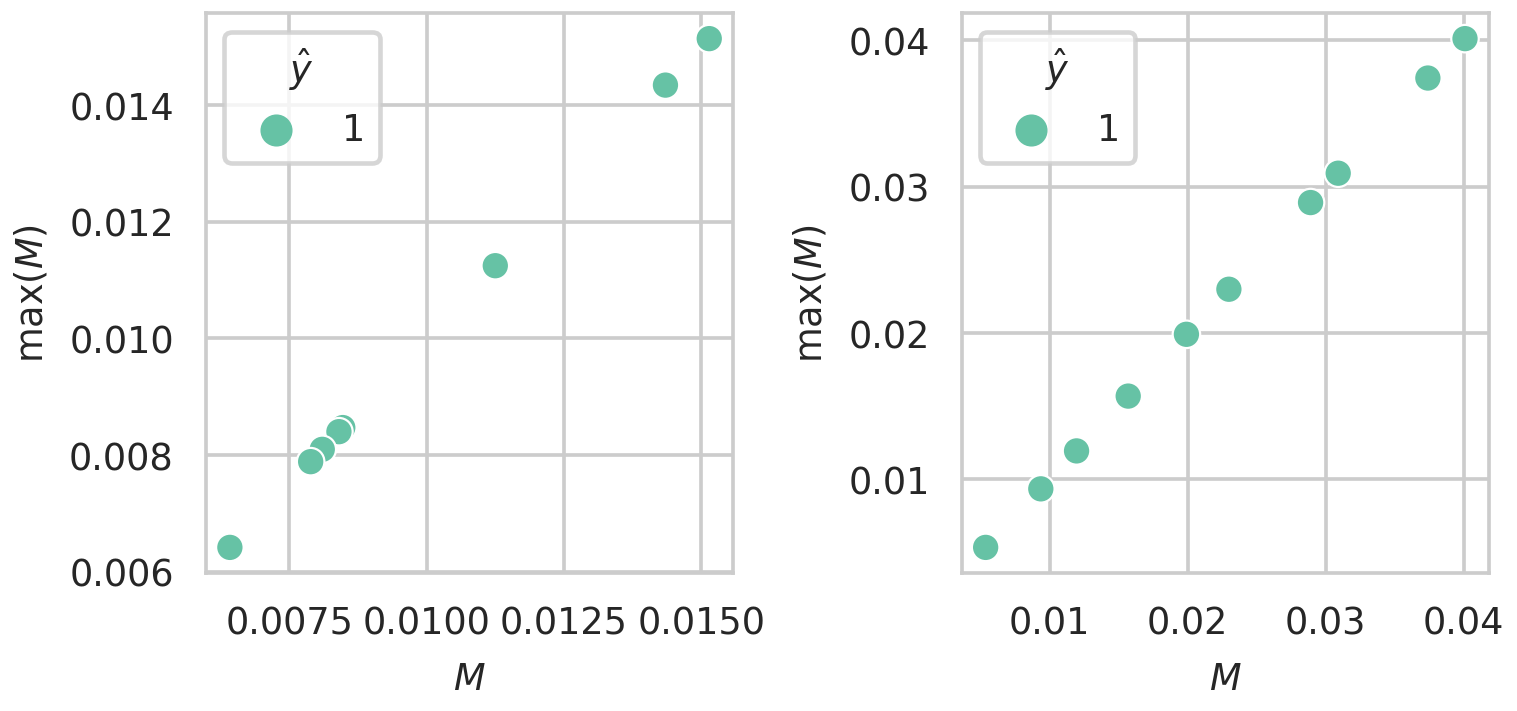
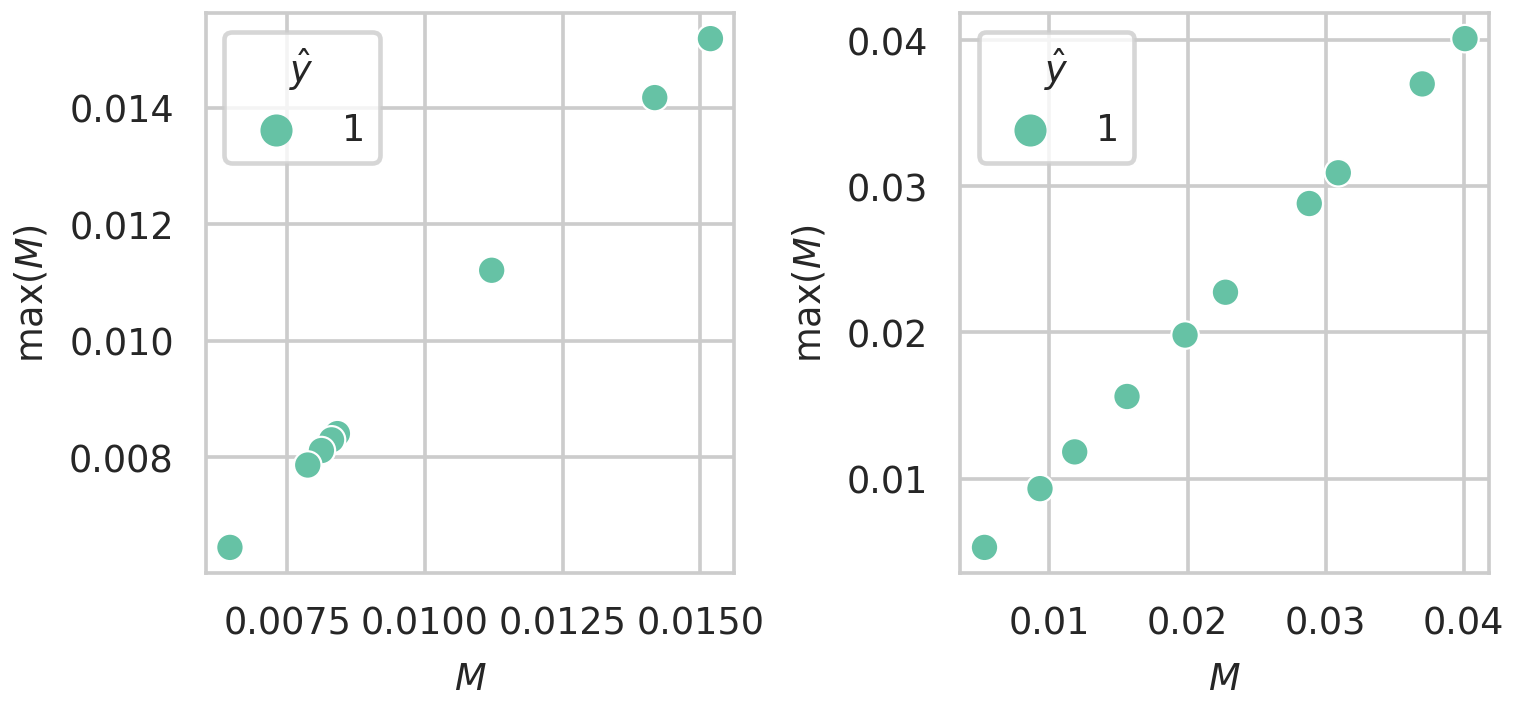
settings

diff --git a/eval_celeb_a.py b/eval_celeb_a.py
@@ -1,4 +1,5 @@
 from pathlib import Path
+import os
 
 import numpy as np
 import matplotlib.pyplot as plt
@@ -15,7 +16,7 @@ warnings.filterwarnings('ignore')
 from datasets.celeba_uf import CelebA
 from datasets.cifar10big import CIFAR10Big
 
-from metrics import whitebox_mean
+from metrics import whitebox_mem_score
 
 device = 'cuda:0' if torch.cuda.is_available() else 'cpu'
 s_directory = 'results/celeba'
@@ -25,8 +26,15 @@ batch_size = 512
 mean = [0, 0, 0]
 std = [1, 1, 1]
 
-outputfile = 'blackbox_celeba.csv'
-eval_dataset = 'cifar10' # cifar10 (blackbox) or celeb a (whitebox)
+# select memorisation test setting
+if os.environ['SETTING'] == 'blackbox':
+    outputfile = 'celeba_whitebox.csv'
+    eval_dataset = 'cifar10'
+elif os.environ['SETTING'] == 'greybox':
+    outputfile = 'celeba_greybox.csv'
+    eval_dataset = 'celeba'
+else:
+    raise NotImplementedError('SETTING unknown')
 
 basic_transforms = [
     transforms.ToTensor(),
@@ -109,8 +117,7 @@ def evaluate(experiment=None, show_label_dist=True, n_models=30, threshold=0, n=
         dataset = CIFAR10Big(root='./data', train=True,
                         download=True, transform=basic_transforms, canary_id='all')
     else:
-        raise ImportError(f'dataset {ds} is unknown')
-
+        raise NotImplementedError(f'dataset {ds} is unknown')
 
     dataloader = torch.utils.data.DataLoader(dataset, batch_size=batch_size,
                                                 shuffle=False, num_workers=2)
@@ -135,7 +142,7 @@ def evaluate(experiment=None, show_label_dist=True, n_models=30, threshold=0, n=
         labels = dataset.get_targets()
 
         # metrics            
-        m1, pval, _ = whitebox_mean(y_c, y_uf, canary_label, labels)
+        m1, pval, _ = whitebox_mem_score(y_c, y_uf, canary_label, labels)
         wb_mean.append(m1)
         wb_mean_pval.append(pval)
 
@@ -143,7 +150,7 @@ def evaluate(experiment=None, show_label_dist=True, n_models=30, threshold=0, n=
         stat_mean = []
         pval_mean = []
         for k in range(n_classes):
-            m1, pval, _ = whitebox_mean(y_c, y_uf, k, labels)
+            m1, pval, _ = whitebox_mem_score(y_c, y_uf, k, labels)
             stat_mean.append(m1)
             pval_mean.append(pval)
         
@@ -161,11 +168,11 @@ def evaluate(experiment=None, show_label_dist=True, n_models=30, threshold=0, n=
         uf_dim = 5
 
     dataf = {
-        'wb_mean': wb_mean,
-        'wb_mean_arg_max': wb_mean_arg_max,
-        'wb_mean_pval': wb_mean_pval,
-        'wb_mean_arg_max_pval': wb_mean_arg_max_pval,
-        'y_hat_mean': y_hat_mean,
+        'whitebox_m': wb_mean,
+        'blackbox_m': wb_mean_arg_max,
+        'whitebox_m_pval': wb_mean_pval,
+        'blackbox_m_pval': wb_mean_arg_max_pval,
+        'y_hat': y_hat_mean,
         'uf dim': uf_dim,
         'canary frequency': canary_frequency,
         'cardinality': cardinality
@@ -196,7 +203,6 @@ def plot():
     plt.rc('legend', fontsize=SMALL_SIZE)    # legend fontsize
     plt.rc('figure', titlesize=BIGGER_SIZE)  # fontsize of the figure title
 
-
     sns.set_style('whitegrid')
     sns.set_palette("Set2")
 
@@ -204,13 +210,13 @@ def plot():
 
     print(df.columns)
 
-    d0 = df[(df['wb_mean_pval'] < 0.05) & (df['canary frequency'] == 1)]['wb_mean']
+    d0 = df[(df['whitebox_m_pval'] < 0.05) & (df['canary frequency'] == 1)]['whitebox_m']
     print(f'{(len(d0))} / {len(df) // 2} n model memorised {(len(d0)) / (len(df) // 2)} ')
     print(f"average memorisation {d0.mean():.2f}")
 
-    df[r'$\hat{y}$'] = df['y_hat_mean']
+    df[r'$\hat{y}$'] = df['y_hat']
 
-    df = df.loc[(df['wb_mean_pval'] < 0.05)]
+    df = df.loc[(df['whitebox_m_pval'] < 0.05)]
 
     f, ax = plt.subplots(1, 2, constrained_layout=True, figsize=(6.9 * (2/3), 6.9 / 1.6 / 2))
 
@@ -224,8 +230,8 @@ def plot():
     df_0 = df.loc[(df['uf dim'] == 5) & (df['canary frequency'] == 1)]
     df_1 = df.loc[(df['uf dim'] == 5) & (df['canary frequency'] == 100)]
 
-    sns.scatterplot(data=df_0, x='wb_mean', y='wb_mean_arg_max', hue=r'$\hat{y}$', ax=ax[0], palette=cmap )
-    sns.scatterplot(data=df_1, x='wb_mean', y='wb_mean_arg_max', hue=r'$\hat{y}$', ax=ax[1], palette=cmap  )
+    sns.scatterplot(data=df_0, x='whitebox_m', y='blackbox_m', hue=r'$\hat{y}$', ax=ax[0], palette=cmap )
+    sns.scatterplot(data=df_1, x='whitebox_m', y='blackbox_m', hue=r'$\hat{y}$', ax=ax[1], palette=cmap  )
 
     ax[0].set_xlabel(r'$M$')
     ax[0].set_ylabel(r'$\mathrm{max}(M)$')

diff --git a/metrics.py b/metrics.py
@@ -1,6 +1,6 @@
 from scipy.stats import ttest_rel
 
-def whitebox_mean(output_1, output_2,  label, labels):
+def whitebox_mem_score(output_1, output_2,  label, labels):
     # constrastive output, unique feature output, canary label, all labels
     indxs = (labels == label).nonzero()[0]
     output_1_f = output_1[indxs, label]

diff --git a/README.md b/README.md
@@ -5,27 +5,35 @@
 ```
 pip install tqdm scikit-learn pandas seaborn scikit-image 
 ```
-1. Setup directories
+3. Setup directories
 ```
 python utils.py
 ```
 
-# Run Celeb-A memorisation experiment
+# Key Results
+
+## Run Celeb-A memorisation experiment
+
+Run time approximately 1 hour.
+
 1. Train Celeb-A models
 ```
 python train_celeb_a.py
 ```
 2. Run the memorisation metrics
 ```
+export SETTING=greybox
+python eval_celeb_a.py
+export SETTING=blackbox
 python eval_celeb_a.py
 ```
-3. Results output to whitebox_celeb_a.py
+3. Results output to ```celeba_greybox.csv```, ```celeba_whitebox.csv```
 
-# Rare concepts lead to memorisation experiment
+## Rare concepts lead to memorisation experiment
 
 Launch the `toy_memorisation_extra_dim.ipynb` Jupyter notebook.
 
 # Authors
 
-John Hartley,
-Pedro Sanchez
+1. John Hartley john.hartley@ed.ac.uk
+2. Pedro Sanchez pedro.sanchez@ed.ac.uk
